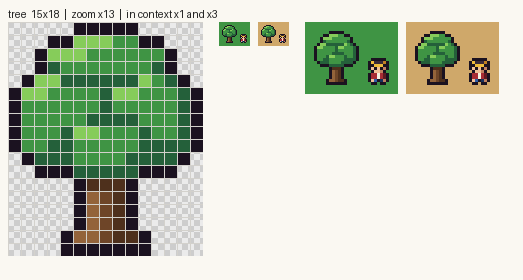
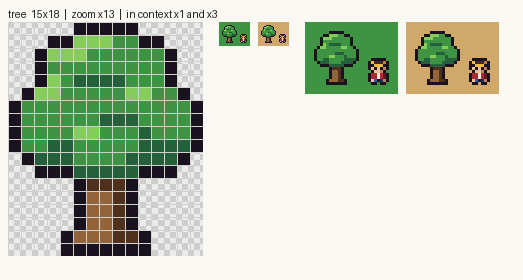
Add tree round 1 revision
Claude-Session: https://claude.ai/code/session_017hBigdyyagtCxF8RX9TYQB

diff --git a/art/work/tree/notes.md b/art/work/tree/notes.md
@@ -25,3 +25,15 @@ On grass the base `h` matches the ground colour; the full `k` outline keeps the 
 - Interior 3 px wide (5 px with outline), about a third of the canopy, a sturdy broadleaf trunk next to the 6 px wide captain.
 - Row 16 widens by 1 px each side: the root flare where the trunk meets the ground (lit `vv` on the left, shaded `ww` on the right).
 - Row 17 is the bottom outline, so the trunk stands on the bottom row, outlined like the captain's feet.
+
+## Round 1
+
+The original notes above describe the round-0 draft; where they conflict, this section describes the sprite as it now stands.
+
+1. [MAJOR] G "I/H glyph" in the middle of the canopy: fixed. The column-7 stem (7,5), (7,6) is gone. The dome underside is now a short bar at (5-8,4), with (4,4) and (9,4) h. The shadow over the front cluster is (7-9,7); (6,7) is h. The two dark marks no longer touch, so each reads as the underside of its own clump.
+2. [MAJOR] H-against-G jumps and right-edge rim: fixed. Every H now has h between it and any G: (4,4) h next to the left cap, (9,4)/(10,4) h above the right cap, (6,7) h above the front cap, and (4,8) h (was G) beside (5,8) H. The 1 px G rim on the right is gone: (13,5)-(13,8) are h, and (12,4) is now inside the new outline (see 3). Right-side shade is only the lower-right wedge (10,8), (10-13,9), (9-12,10), plus the underside row 11.
+3. [MAJOR] Clusters not visible in the silhouette: fixed as directed. Row 4 now spans cols 2-12 (k at (2,4)/(12,4)), row 5 spans 1-13 (k at (1,5)/(13,5)), rows 6-9 span 0-14. Left edge by row: 5,3,2,2,2,1,0,0,0,0,1,2. The dome now sits on top as its own shape, and the side clumps step out below it. Caps redone to match: left (3,4), (2-3,5); right (9-10,5). The silhouette is still exactly symmetric.
+4. [MINOR] Three 1 px trunk stripes: fixed. Trunk rows 13-15 are `vvw` (lit left 2 px, shaded right 1 px), the flare row 16 is `vvvww`, and row 12 stays all w (the canopy's shadow on the trunk top).
+5. [MINOR] Crevice nicks (3,3), (11,3): fixed, both h. The outline step from fix 3 now separates the dome from the side clusters.
+
+Re-rendered and checked at zoom, 1x and 3x on grass and sand next to the captain: the canopy reads as clumps lit from the top left, with no dark glyph in the middle, and the trunk is a clean two-tone cylinder.
